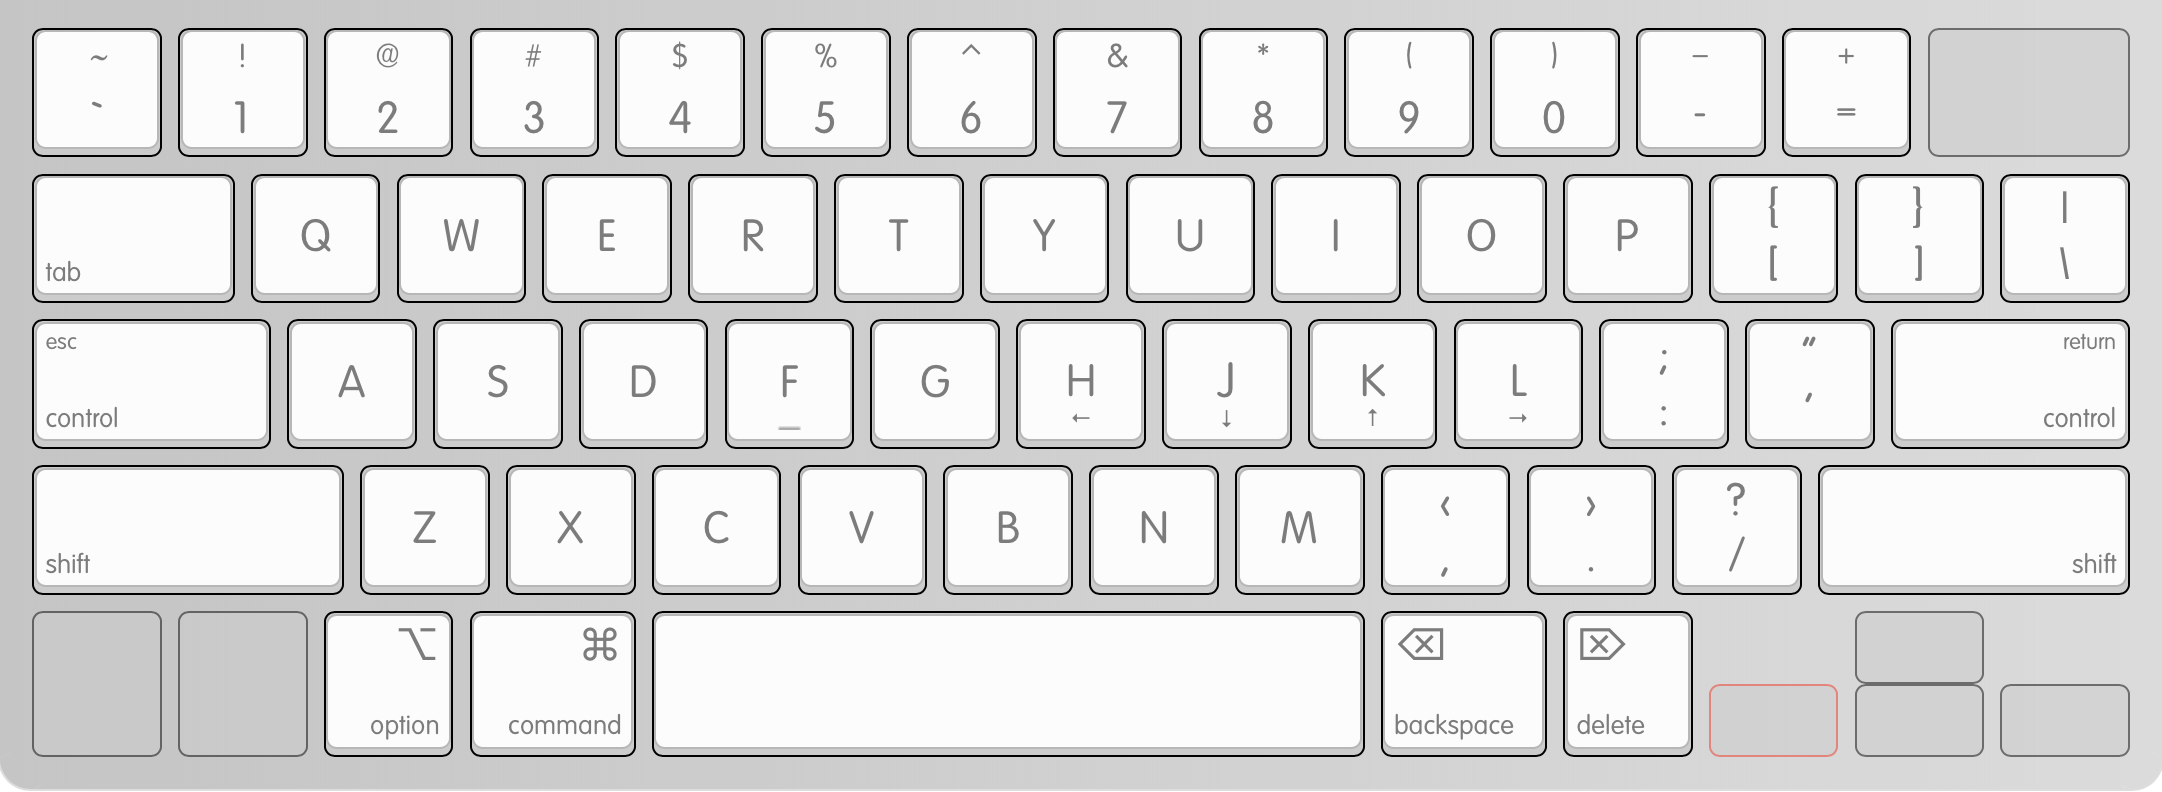
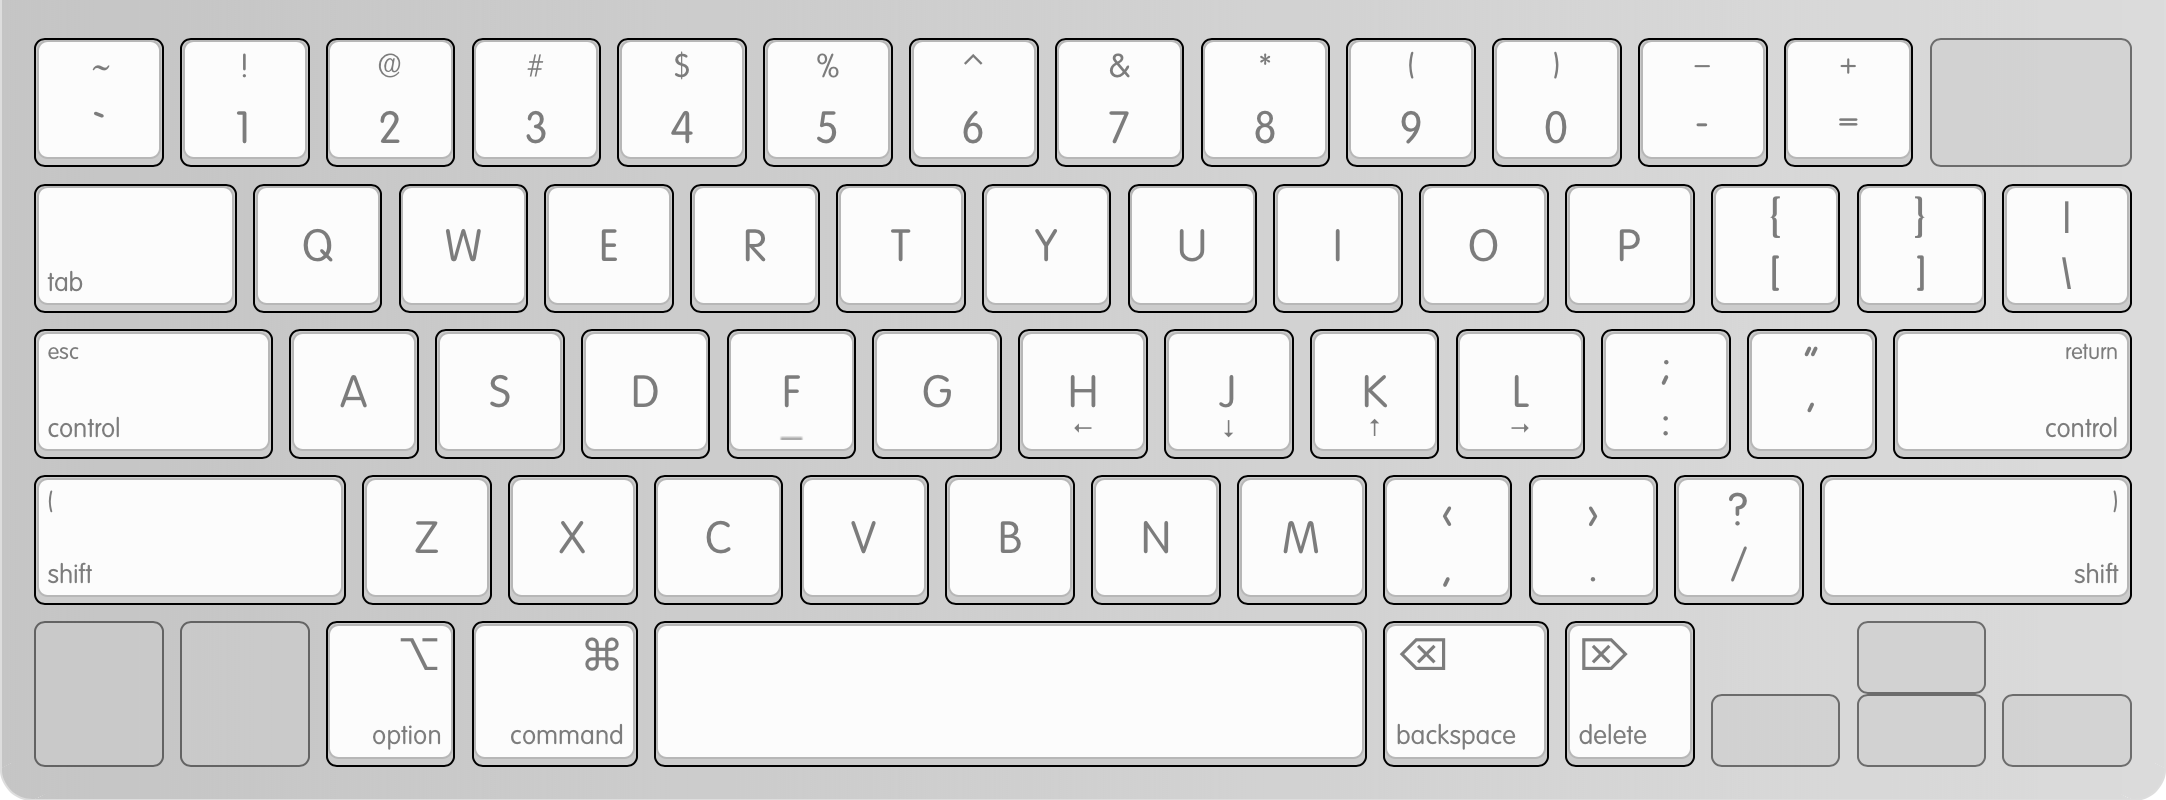
Map shift keys to () if pressed alone

diff --git a/README.md b/README.md
@@ -40,7 +40,7 @@ Below is the adjusted keyboard layout that I'm using:
 
 [![layout](karabiner/keyboard_layout.png)][1]
 
-[1]: http://www.keyboard-layout-editor.com/##@_backcolor=%23dbdbdb&name=Apple%20Wireless%20Keyboard&author=Alistair%20Calder&radii=6px%206px%2012px%2012px%20%2F%2F%2018px%2018px%2012px%2012px&css=%2F@import%20url(http%2F:%2F%2F%2F%2Ffonts.googleapis.com%2F%2Fcss%3Ffamily%2F=Varela+Round)%2F%3B%0A%0A%23keyboard-bg%20%7B%20%0A%20%20%20%20background-image%2F:%20linear-gradient(to%20bottom,%20rgba(0,0,0,0.5)%200%25,%20rgba(0,0,0,0)%204%25,%20rgba(255,255,255,0.3)%206%25,%20rgba(0,0,0,0)%2010%25),%20%0A%20%20%20%20%20%20%20%20%20%20%20%20%20%20%20%20%20%20%20%20%20%20linear-gradient(to%20right,%20rgba(0,0,0,0.1)%200%25,%20rgba(0,0,0,0)%20100%25)%20!important%2F%3B%20%0A%7D%0A%0A.keylabel%20%7B%0A%20%20%20%20font-family%2F:%20'volkswagen%2F_serialregular'%2F%3B%0A%7D%0A%0A%2F%2F*%20Strangely,%20%22Volkswagen%20Serial%22%20doesn't%20have%20a%20tilde%20character%20*%2F%2F%0A.varela%20%7B%20%0A%20%20%20%20font-family%2F:%20'Varela%20Round'%2F%3B%20%0A%20%20%20%20display%2F:%20inline-block%2F%3B%20%0A%20%20%20%20font-size%2F:%20inherit%2F%3B%20%0A%20%20%20%20text-rendering%2F:%20auto%2F%3B%20%0A%20%20%20%20-webkit-font-smoothing%2F:%20antialiased%2F%3B%20%0A%20%20%20%20-moz-osx-font-smoothing%2F:%20grayscale%2F%3B%0A%20%20%20%20transform%2F:%20translate(0,%200)%2F%3B%0A%7D%0A.varela-tilde%2F:after%20%7B%20content%2F:%20%22%5C07e%22%2F%3B%20%7D&pcb:false&plate:false%3B&@_y:1.5&t=%23666666&p=CHICKLET&a:5&f:5&fa@:3%3B%3B&=%3Ci%20class%2F=%22varela%20varela-tilde%22%3E%3C%2F%2Fi%3E%0A%60&=!%0A1&=%2F@%0A2&=%23%0A3&=$%0A4&=%25%0A5&=⌃%0A6&=%2F&%0A7&=*%0A8&=(%0A9&=)%0A0&_fa@:3&=undefined%3B%3B&=–%0A-&=+%0A%2F=&_g:true&a:4&f:2&w:1.5%3B&=%0A%0A%0Adelete%3B&@_g:false&w:1.5%3B&=%0Atab&_a:7&f:5%3B&=Q&=W&=E&=R&=T&=Y&=U&=I&=O&=P&_a:5%3B&=%7B%0A%5B&=%7D%0A%5D&=%7C%0A%5C%3B&@_a:4&f:2&fa@:1%3B&w:1.75%3B&=esc%0Acontrol&_a:7&f:5%3B&=A&=S&=D&_n:true%3B&=F&=G&_a:5&fa@:0&:1&:0&:0&:0&:0&:0%3B%3B&=%0A←%0A%0A%0A%0A%0AH&_fa@:0&:1&:0&:0&:0&:0&:6%3B%3B&=%0A↓%0A%0A%0A%0A%0AJ&_fa@:0&:1&:0&:0&:0&:0&:0%3B%3B&=%0A↑%0A%0A%0A%0A%0AK&_sm=alps%3B&=%0A→%0A%0A%0A%0A%0AL&_f:5%3B&=%2F%3B%0A%2F:&_f:5%3B&=%22%0A'&_a:4&f:2&fa@:0&:1&:1&:0%3B&w:1.75%3B&=%0A%0Areturn%0Acontrol%3B&@_f:2&w:2.25%3B&=%0Ashift&_a:7&f:5%3B&=Z&=X&=C&=V&=B&=N&=M&_a:5&fa@:6%3B%3B&=%3C%0A,&=%3E%0A.&_f:5%3B&=%3F%0A%2F%2F&_a:4&f:2&w:2.25%3B&=%0A%0A%0Ashift%3B&@_g:true&h:1.111%3B&=%0Afn&_fa@:0&:0&:5%3B&h:1.111%3B&=%0A%0A⌃%0Acontrol&_g:false&h:1.111%3B&=%0A%0A⌥%0Aoption&_w:1.25&h:1.111%3B&=%0A%0A⌘%0Acommand&_a:7&w:5&h:1.111%3B&=&_a:4&fa@:5%3B&w:1.25&h:1.111%3B&=⌫%0Abackspace&_h:1.111%3B&=⌦%0Adelete&_x:1&g:true&a:7&f:5&h:0.611%3B&=↑%3B&@_y:-0.5&x:11.5&h:0.6111%3B&=←&_h:0.6111%3B&=↓&_h:0.6111%3B&=→
+[1]: http://www.keyboard-layout-editor.com/##@_backcolor=%23dbdbdb&name=Apple%20Wireless%20Keyboard&author=Alistair%20Calder&radii=6px%206px%2012px%2012px%20%2F%2F%2018px%2018px%2012px%2012px&css=%2F@import%20url(http%2F:%2F%2F%2F%2Ffonts.googleapis.com%2F%2Fcss%3Ffamily%2F=Varela+Round)%2F%3B%0A%0A%23keyboard-bg%20%7B%20%0A%20%20%20%20background-image%2F:%20linear-gradient(to%20bottom,%20rgba(0,0,0,0.5)%200%25,%20rgba(0,0,0,0)%204%25,%20rgba(255,255,255,0.3)%206%25,%20rgba(0,0,0,0)%2010%25),%20%0A%20%20%20%20%20%20%20%20%20%20%20%20%20%20%20%20%20%20%20%20%20%20linear-gradient(to%20right,%20rgba(0,0,0,0.1)%200%25,%20rgba(0,0,0,0)%20100%25)%20!important%2F%3B%20%0A%7D%0A%0A.keylabel%20%7B%0A%20%20%20%20font-family%2F:%20'volkswagen%2F_serialregular'%2F%3B%0A%7D%0A%0A%2F%2F*%20Strangely,%20%22Volkswagen%20Serial%22%20doesn't%20have%20a%20tilde%20character%20*%2F%2F%0A.varela%20%7B%20%0A%20%20%20%20font-family%2F:%20'Varela%20Round'%2F%3B%20%0A%20%20%20%20display%2F:%20inline-block%2F%3B%20%0A%20%20%20%20font-size%2F:%20inherit%2F%3B%20%0A%20%20%20%20text-rendering%2F:%20auto%2F%3B%20%0A%20%20%20%20-webkit-font-smoothing%2F:%20antialiased%2F%3B%20%0A%20%20%20%20-moz-osx-font-smoothing%2F:%20grayscale%2F%3B%0A%20%20%20%20transform%2F:%20translate(0,%200)%2F%3B%0A%7D%0A.varela-tilde%2F:after%20%7B%20content%2F:%20%22%5C07e%22%2F%3B%20%7D&pcb:false&plate:false%3B&@_y:1.5&t=%23666666&p=CHICKLET&a:5&f:5&fa@:3%3B%3B&=%3Ci%20class%2F=%22varela%20varela-tilde%22%3E%3C%2F%2Fi%3E%0A%60&=!%0A1&=%2F@%0A2&=%23%0A3&=$%0A4&=%25%0A5&=⌃%0A6&=%2F&%0A7&=*%0A8&=(%0A9&=)%0A0&_fa@:3&=undefined%3B%3B&=–%0A-&=+%0A%2F=&_g:true&a:4&f:2&w:1.5%3B&=%0A%0A%0Adelete%3B&@_g:false&w:1.5%3B&=%0Atab&_a:7&f:5%3B&=Q&=W&=E&=R&=T&=Y&=U&=I&=O&=P&_a:5%3B&=%7B%0A%5B&=%7D%0A%5D&=%7C%0A%5C%3B&@_a:4&f:2&fa@:1%3B&w:1.75%3B&=esc%0Acontrol&_a:7&f:5%3B&=A&=S&=D&_n:true%3B&=F&=G&_a:5&fa@:0&:1&:0&:0&:0&:0&:0%3B%3B&=%0A←%0A%0A%0A%0A%0AH&=%0A↓%0A%0A%0A%0A%0AJ&=%0A↑%0A%0A%0A%0A%0AK&_sm=alps%3B&=%0A→%0A%0A%0A%0A%0AL&_f:5%3B&=%2F%3B%0A%2F:&_f:5%3B&=%22%0A'&_a:4&f:2&fa@:0&:1&:1&:0%3B&w:1.75%3B&=%0A%0Areturn%0Acontrol%3B&@_f:2&w:2.25%3B&=(%0Ashift&_a:7&f:5%3B&=Z&=X&=C&=V&=B&=N&=M&_a:5&fa@:6%3B%3B&=%3C%0A,&=%3E%0A.&_f:5%3B&=%3F%0A%2F%2F&_a:4&f:2&w:2.25%3B&=%0A%0A)%0Ashift%3B&@_g:true&h:1.111%3B&=%0Afn&_fa@:0&:0&:5%3B&h:1.111%3B&=%0A%0A⌃%0Acontrol&_g:false&h:1.111%3B&=%0A%0A⌥%0Aoption&_w:1.25&h:1.111%3B&=%0A%0A⌘%0Acommand&_a:7&w:5&h:1.111%3B&=&_a:4&fa@:5%3B&w:1.25&h:1.111%3B&=⌫%0Abackspace&_h:1.111%3B&=⌦%0Adelete&_x:1&g:true&a:7&f:5&h:0.611%3B&=↑%3B&@_y:-0.5&x:11.5&h:0.6111%3B&=←&_h:0.6111%3B&=↓&_h:0.6111%3B&=→
 
 ## Vim `HJKL` everywhere with [Karabiner](karabiner/.config/karabiner/karabiner.json)
 
